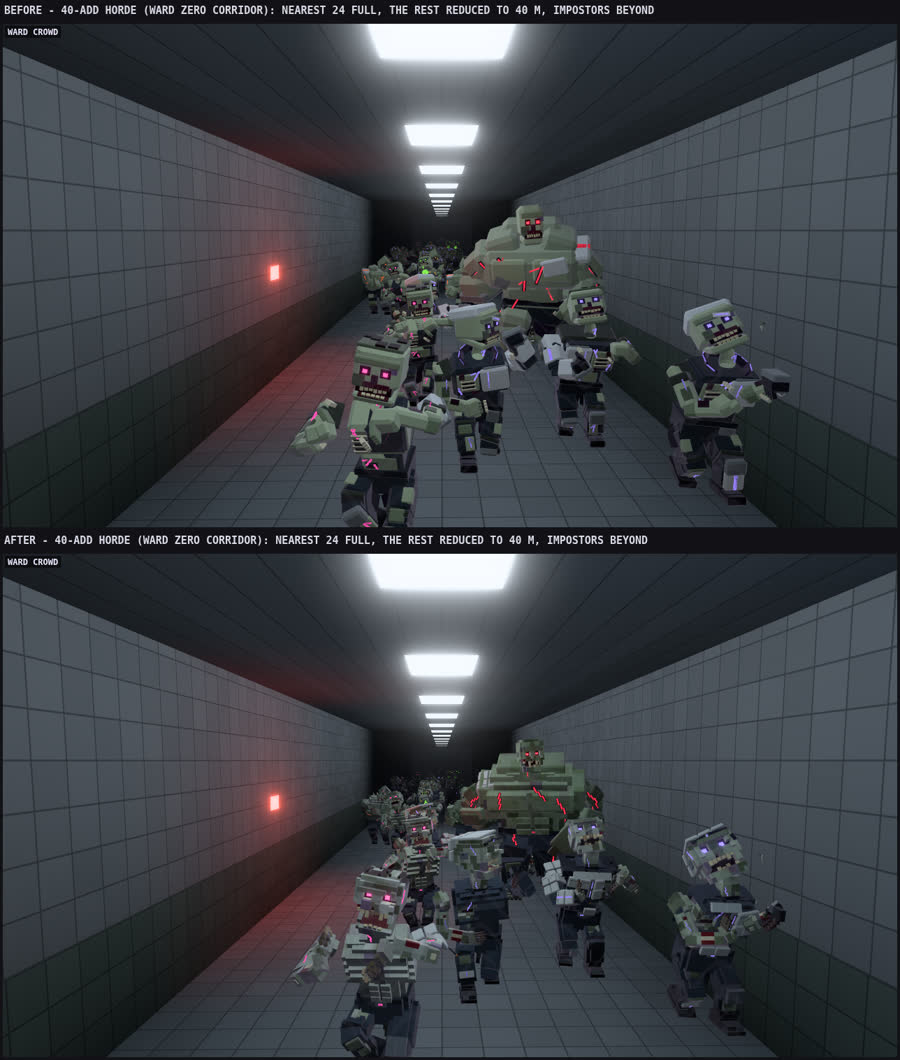
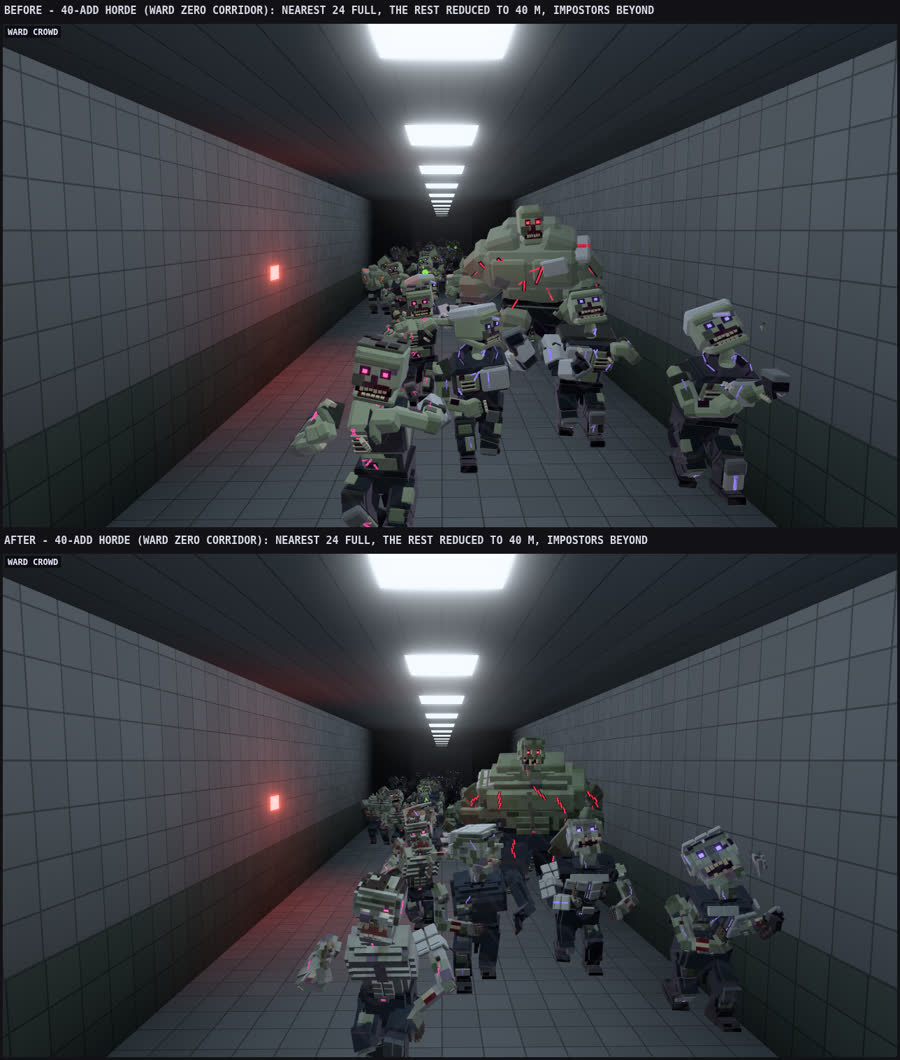
Docs: zombie voxel rework in DEV_LOG, PROJECT_STATE and the design brief (on branch, not merged)
Records the owner's decision (the sculpted pass rejected, voxel style kept), the voxel design, budgets, the
motion merge and run5b on 2630ded; old-vs-new images posed by the combined motion.

Claude-Session: https://claude.ai/code/session_016vcFnbXRci8EhhM95ccedJ

diff --git a/docs/DEV_LOG.md b/docs/DEV_LOG.md
@@ -1,71 +1,87 @@
-## 2026-10-17 — Claude: zombie design, rotted pilots on an organic kit (on branch, not merged)
+## 2026-10-17 — Claude: zombie design, voxel rework of the rotted pilots (on branch, not merged)
 
-- Branch `claude/zombie-design`, base shared `f3d8eb4`. Newest shared `5dc860d` merged in as `6011f69`. Commits:
-  - `d5ec09b`: kit, anatomy, kinds and the ZombieLit shader.
-  - `a74ac0c`: review pass.
-  - `9d36afa`: design brief.
-  - `5b45868`: shader warm-up list.
-  - `f171fa3`: test-scan fix.
+- **Branch and commits.** Branch `claude/zombie-design`, base shared `f3d8eb4`.
+  - Shared merged in twice, every log entry kept: `03dddab` as `d79cdc9`, then `97046f7` (the zombie motion pass) as
+    `2630ded`.
+  - In the motion merge, `NativeHordeKindPresentation.cs` merged cleanly with both sides (motion: pose and clock; design:
+    tint, material, draw), and `station-enemies-baseline.txt` was regenerated on the combined code
+    (`StationBaseline.Measure`; the motion lines as the motion pass measured them, the voxel model lines re-pinned).
   - Not merged, no PR, builder untouched, nothing published.
-- **Why:** owner (2026-10-17): "Yes fix the zombies animations (Design as well, it seems they are still on the lower quality end)
-  Improve these vastly." This is the design half: models, materials and shading. Motion is the separate `claude/zombie-motion` task.
-- **Changes** (`docs/ZOMBIE-DESIGN.md` has the brief, before/after images, decisions, the shading-data spec and budgets):
-  - The Siren's seven kinds are rebuilt as rotted pilots on a new organic kit (`Core/NativeZombieKit.cs`,
-    `NativeZombieAnatomy.cs`, `NativeZombieKinds.cs`). The kit has lofted limbs and muscle masses, a sculpted skull with
-    sockets, torn lips, teeth and a U-shaped hinged jaw, and the pilot's armour as curved shells that hug the body (helmet with
-    its face smashed out, pectoral shells, collar band, deltoid dome, sleeves, forearm guards) plus broken slabs. It also adds
-    wounds, ribs, veins, glowing cracks, claws, tatters and cables.
-  - The occlusion is baked per vertex. Skin is mottled (per kind and look, plus per add in the shader), with grime toward the
-    hands and feet and ink-blood round the mouth.
-  - `Resources/NativeZombieLit.shader` (Built-in RP surface shader) keeps the horde shader's inputs and adds per-class wrap,
-    specular and rim, the baked occlusion, per-add proportions, missing pieces and shader sway. It falls back to the old
-    shader if missing or unsupported.
-  - Per-add variation goes through the instanced body tint (`NativeHordeModels.Variation`): skin tone, ±5-7 % proportions and
-    four optional armour groups. It is set in `HordeQueue`/`HordeQueueJaw`/`HordePartsDraw` and on the death body. Nothing is
-    allocated per frame.
-  - Zone kinds keep their classic bodies (`ClassicRunner`/`ClassicBrute` stay for the Ironworks kinds, same triangle counts);
-    only the occlusion bake reaches them.
-- **Affected systems:** horde kind models and their draw path (`NativeHordeKindModels`, `NativeHordeKindPresentation`; small
-  edits in the material and draw regions only), the death body (`NativeMinionFxPresentation`, `NativeHordeHulkGallery`),
-  `WeaponSculpt` (surface data, smooth quads), the stage shader warm-up list, the Editor build's shader check list, and the
-  tests (HordeKindChecks geometry/shading/variation/shader checks and the widest-variation capsule test; Ironworks BaseCounts
-  and the station baseline's model lines re-pinned, with 0 non-model measures changed).
-- **Animation impacts:** none. No hit timing, hitbox, damage, cooldown, movement or network change. Joints are not renamed or
-  reordered. Every kind, look and tier stays inside its capsule at the widest per-add variation plus sway (HordeKindChecks,
-  HulkSpitterChecks). Dangling parts sway in the vertex shader only (listed in the doc for the motion agent).
+  - `d5ec09b`, `a74ac0c`: the first pass, sculpted organic bodies (rejected; see below).
+  - `5b45868`, `f171fa3`: two check fixes that still apply to the shader and the kit.
+  - `136062d`: the voxel rework.
+- **Why.** Owner (2026-10-17): "Yes fix the zombies animations (Design as well, it seems they are still on the lower
+  quality end) Improve these vastly." The first pass rebuilt the kinds as smooth sculpted bodies. Owner on seeing it: "Keep
+  voxel style, just improve it. The sculpted looks odd". The rework keeps the game's voxel style: the same blocky, armoured
+  pilots, rotted, now built from many small cubes at a few sizes. This is the design half; motion is `claude/zombie-motion`.
+- **Changes.** `docs/ZOMBIE-DESIGN.md` has the brief, the old-vs-new images, the shading spec, budgets and dangling parts.
+  - **Kit** (`Core/NativeZombieKit.cs`):
+    - voxel grids laid in layers (suit over skin over flesh and bone), with a depth per cell, so tears, sockets and
+      wounds are cells taken away;
+    - a mesher that draws only faces open to air, merges matching coplanar faces, and bakes each corner's voxel occlusion
+      (`WeaponSculpt.QuadData`);
+    - plates cracked into offset tiles, block rags and cables that sway, stepped glowing cracks and veins;
+    - a stepped shade per block, stepped grime and blood.
+  - **Anatomy** (`NativeZombieAnatomy.cs`):
+    - a ten-cell cube skull: sockets with glowing block pupils, a stepped brow, a broken nose, a torn cheek, uneven block
+      teeth, a hanging block jaw;
+    - the helmet cracked into shards;
+    - layered torso, limbs and shoulders with stepped torn suit edges, block wounds and rib rows;
+    - block fingers, claws, knuckles and toes.
+  - **Kinds** (`NativeZombieKinds.cs`): the brute's and Hulk's stacked, offset block muscle and the Hulk's stepped glowing
+    splits; the spitter's sac of glowing voxels; the bloater's voxel gut.
+  - **Tiers:** Reduced has larger body voxels, one skin paint, a block head and a block gut; the impostor is a block per
+    part.
+  - **`ZombieLit`:** low wrap so the faces stay crisp, and the skin mottled in stepped cells. The fallback and the per-add
+    tint (tone, proportions, missing pieces) are unchanged.
+- **Affected systems:**
+  - The seven kinds' models.
+  - `WeaponSculpt` (`QuadData`; the organic smooth quads removed).
+  - `ZombieLit`.
+  - The tests' re-pinned model measures: Ironworks BaseCounts and the station baseline's model lines, 0 non-model measures
+    changed.
+  - No runtime file changed in this rework. The draw-path edits from the first pass stay: the per-add tint and the shader
+    load.
+  - Zone kinds unchanged (classic bodies, occlusion only).
+- **Animation impacts:** none. No hit timing, hitbox, damage, cooldown, movement or network change. Joints are not renamed
+  or reordered.
+  - Every kind, look and tier stays inside its capsule at the widest per-add variation plus sway (HordeKindChecks,
+    HulkSpitterChecks).
+  - The Hulk's legs are at 0.425 of 0.45 striding, after slimming the feet, shins and cuffs.
+  - Dangling parts sway in the vertex shader only (listed in the doc).
 - **Budgets** (triangles; budgets 7,200 / 3,000 / 600):
-  - Full: 5,912-6,883 (before 3,232-4,362).
-  - Reduced: 2,262-2,907 (before 1,910-2,814).
-  - Impostor: 342-516 (before 432-600).
-  - The 40-add crowd (24 full, 16 reduced, 5 jaws): 402 draws and 212 shadow draws before and after; 136,128 to 196,259
-    triangles (+44 %).
+  - Full: 4,662-7,132 (old blocky 3,232-4,362).
+  - Reduced: 2,072-2,930 (old 1,910-2,814).
+  - Impostor: 348-576 (old 432-600).
+  - The 40-add crowd (24 full, 16 reduced, 5 jaws): 402 draws and 212 shadow draws, old and new; 136,128 to 189,878
+    triangles (+39 %).
 - **Checks** (actual):
-- run5b on `f171fa3`: all five steps exit 0.
+- run5b on `2630ded` (the voxel rework merged with the motion pass): all five steps exit 0.
     - Unity runtime and editor compile against the 6000.3.24f1 assemblies: OK.
-    - Relay and managed suite: 780 PASS lines, no FAIL. That includes horde kinds (629,364 checks: capsules at the
-      widest variation and sway, three tiers under budget, valid meshes and shading data, variation, the zombie shader),
-      Ironworks kinds (281,252), station enemies (154,365), zombie motion (29,884), and Hulk and spitter (49,154).
+    - Relay and managed suite: 784 PASS lines, no FAIL. That includes horde kinds (565,218 checks: capsules at the
+      widest variation and sway on the combined poses, three tiers under budget, valid meshes, normals and shading
+      data, variation, the zombie shader), Ironworks kinds (281,252), station enemies (154,365), zombie motion
+      (29,934), and Hulk and spitter (49,154).
     - Python: 140 tests OK, 1 skipped.
-    - Source package: 2394 files.
+    - Source package: 2,444 files.
     - `git diff --check`: clean.
-  - Two earlier run5b passes each failed one source-scanning check, now fixed:
-    - `5b45868` adds ZombieLit to the stage warm-up's instanced-shader list.
-    - `f171fa3` drops a body-model type name from a kit comment.
+  - run5b on `d79cdc9` (the rework before the motion merge): all five steps exit 0 (783 PASS lines).
   - The surface shader body passes glslang's HLSL front end with Unity's macros stubbed.
-- **Renders** (offline WebGL harness through the same Core code and a port of the shader's shared block; not Unity), in the
-  scratch `renders-zombie-design/`: before/after kind sheets (neutral, Ward Zero corridor, hub at dusk), faces, the 40-add
-  crowds, tiers, variety, gore, and before/after turntables for the shambler, runner, brute and Hulk.
-- **Not run:** Unity Editor, Windows build, real GPU shader compile (the surface shader's custom lighting is checked through
-  glslang's HLSL front end only), two-client play.
+- **Renders.** Offline WebGL harness through the same Core code (posed by the merged motion) and a port of the shader's
+  shared block; not Unity. In the scratch `renders-zombie-design/`:
+  - old-vs-new kind sheets (neutral, Ward Zero corridor, hub at dusk);
+  - faces, the 40-add crowds and tiers;
+  - variety and gore;
+  - old-vs-new turntables for the shambler, runner, brute and Hulk.
+- **Not run:** Unity Editor, Windows build, a real GPU shader compile (glslang's HLSL front end only), two-client play.
 - **Risks:**
-  - If `ZombieLit` fails to compile in Unity, the Editor build check (`NativeBuildChecks`) fails the build loudly; at runtime
-    the code falls back to the old shader.
-  - Crowd triangles grow 44 %.
-  - Eyes are smaller than the old square glows, so they read less at range.
-  - Bowed idle heads hide faces from the front.
-  - `NativeHordeKindPresentation.cs` is also edited by the motion task, so expect a small merge there.
-- **Next:** review in Unity/Windows; merge after the motion task or alongside it. Test-channel publication follows the
-  standing instruction once merged and verified (not done here).
+  - If `ZombieLit` fails to compile in Unity, the Editor build check fails loudly; at runtime the code falls back to the old
+    shader.
+  - Crowd triangles grow 39 %.
+  - Only the spitter and the Hulk have hinged jaw parts, so the motion pass's jaw flap reaches no other kind.
+  - Full budgets are close on the bloater and Hulk (7,132 of 7,200).
+- **Next:** owner review in Unity/Windows; merge into shared (the motion pass is already in). Test-channel publication follows the standing
+  instruction once merged and verified (not done here).
 
 ## 2026-10-17 — Claude: zombie motion pass (on branch, not merged)
 

diff --git a/docs/PROJECT_STATE.md b/docs/PROJECT_STATE.md
@@ -1,6 +1,6 @@
 # Chip Arena — current state
 
-2026-10-17 Claude zombie design (`claude/zombie-design`, on branch, not merged; presentation only): the Siren's seven kinds are rebuilt as rotted pilots on an organic kit. They have sculpted skull faces and hinged jaws, the pilot's armour as broken shells that hug the body, baked occlusion and mottled skin, and the new `ZombieLit` shader (fallback: the old horde shader). Per-add tone, proportions and missing pieces come through the instanced body tint, with no new draws. Tiers stay under budget (Full max 6,883 of 7,200) and every pose stays inside its capsule. run5b passes; Unity Editor and Windows are unrun. See docs/ZOMBIE-DESIGN.md and DEV_LOG.
+2026-10-17 Claude zombie design, voxel rework (`claude/zombie-design`, on branch, not merged; presentation only): the owner rejected the sculpted pass ("Keep voxel style, just improve it"). The Siren's seven kinds are rebuilt as high-end voxel pilots: layered voxel grids (stepped torn suits, block wounds and ribs), cube skulls with recessed sockets and block teeth, cracked tile armour and block muscle. `ZombieLit` is tuned for crisp faces (fallback: the old horde shader); per-add variation comes from the instanced tint, with no new draws. Budgets hold (Full max 7,132 of 7,200) and the capsules hold on the merged motion. run5b passes; Unity Editor and Windows are unrun. See docs/ZOMBIE-DESIGN.md and DEV_LOG.
 
 2026-10-17 Claude zombie motion pass (`claude/zombie-motion`, merged into shared; presentation only): horde adds are posed on a continuous clock and smooth drawn root on every peer, with planted feet, secondary motion and weighted strikes that land at the authority's hit. See `docs/ZOMBIE-MOTION.md`; optional network follow-ups are in Astra prompt #19.
 

diff --git a/docs/ZOMBIE-DESIGN.md b/docs/ZOMBIE-DESIGN.md
@@ -8,7 +8,7 @@ The task is the design half: models, materials, shading and detail. Motion (pose
 curves) is the separate `claude/zombie-motion` task. Presentation only: no hitbox, collider, timing, damage, movement or
 network change, and every vertex stays inside the kind's capsule (HordeKindChecks, HulkSpitterChecks).
 
-![The 40-add horde in the Ward Zero corridor, old blocky (top) and new voxel (bottom)](zombie-design-crowd.jpg)
+![The 40-add horde in the Ward Zero corridor, old blocky (top) and new voxel with the new motion (bottom)](zombie-design-crowd.jpg)
 
 ![Faces at close range, old blocky (top) and new voxel (bottom)](zombie-design-faces.jpg)
 
@@ -143,8 +143,11 @@ later; the weights are already in the mesh.
 
 ## Notes for motion
 
-- Joints are not renamed or reordered; the jaw is the existing hinged jaw model on the Head joint.
-- Bowed heads hide the faces in a front view. A slight head lift on the idle and walk would show the new faces more often.
+- Joints are not renamed or reordered. Only the spitter and the Hulk have a hinged jaw part (the existing jaw model on the
+  Head joint), so the motion pass's jaw flap applies to them alone; the other kinds' jaws hang at a fixed slack in the head.
+- The motion pass (`claude/zombie-motion`, merged into shared as `97046f7`) is merged into this branch. Its loose-head layer
+  lifts the idle head, and the faces read in the new idle (the renders are posed by the combined code). The capsule checks
+  pass on the combined poses.
 - The variation scales are about joint origins, so poses and planted feet are unaffected.
 
 ## Not verified here
